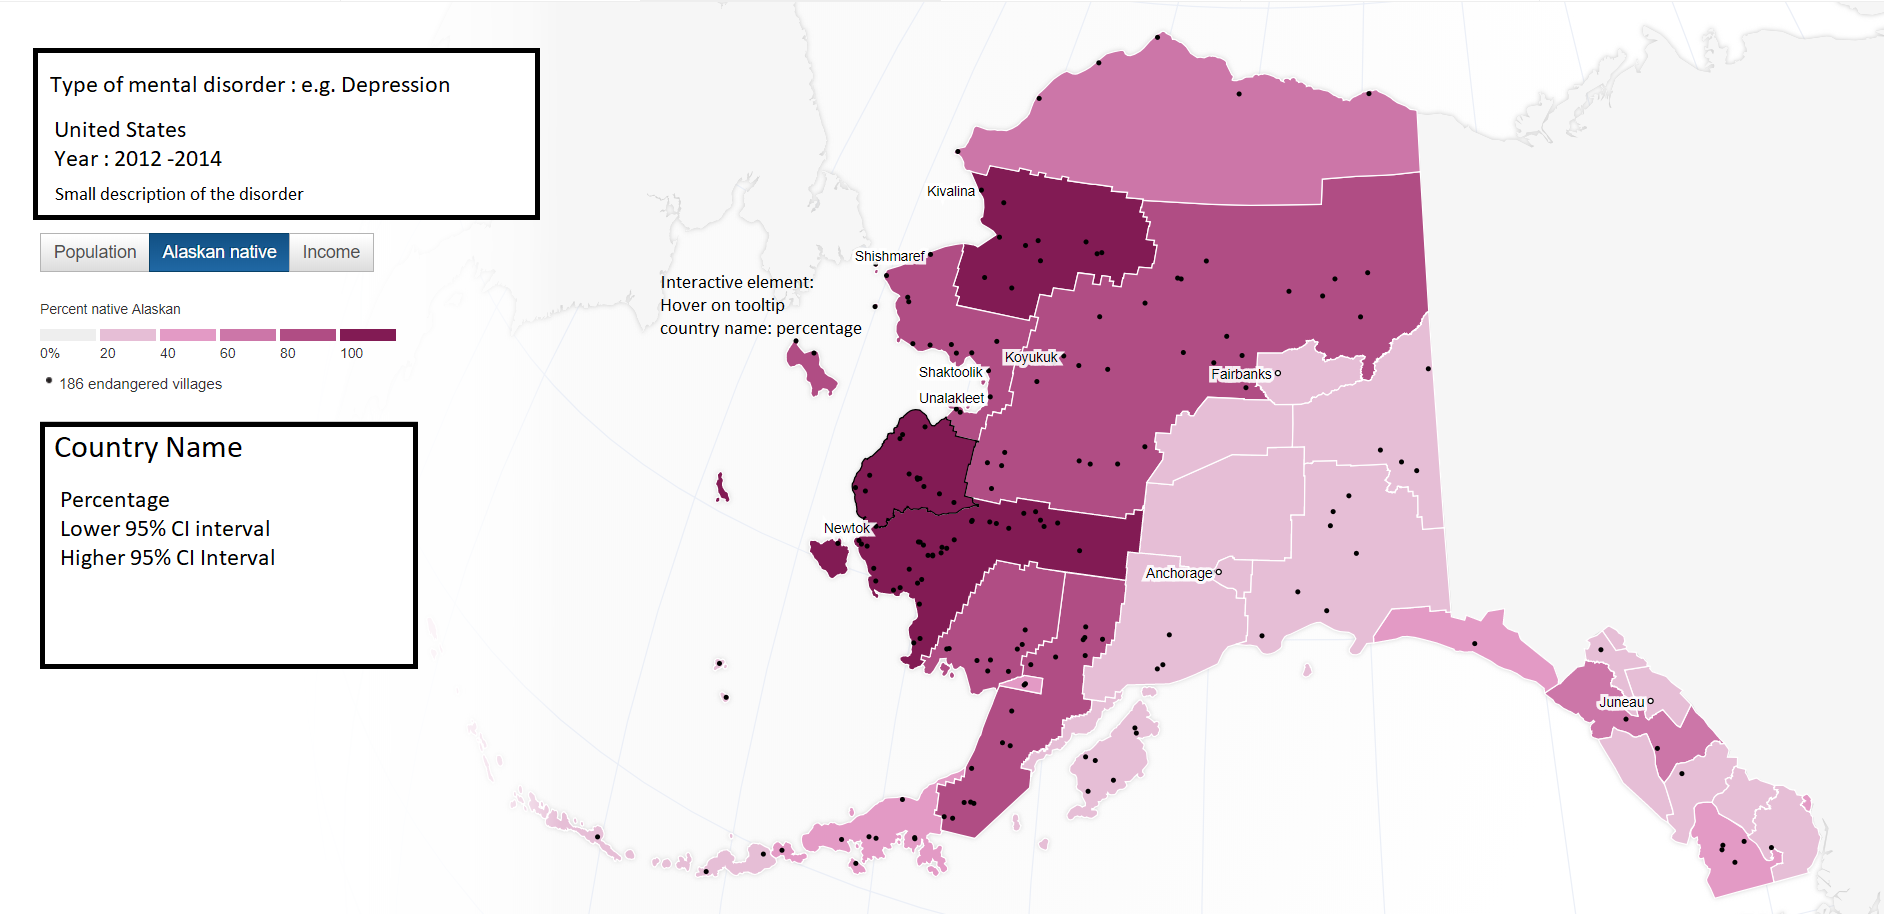
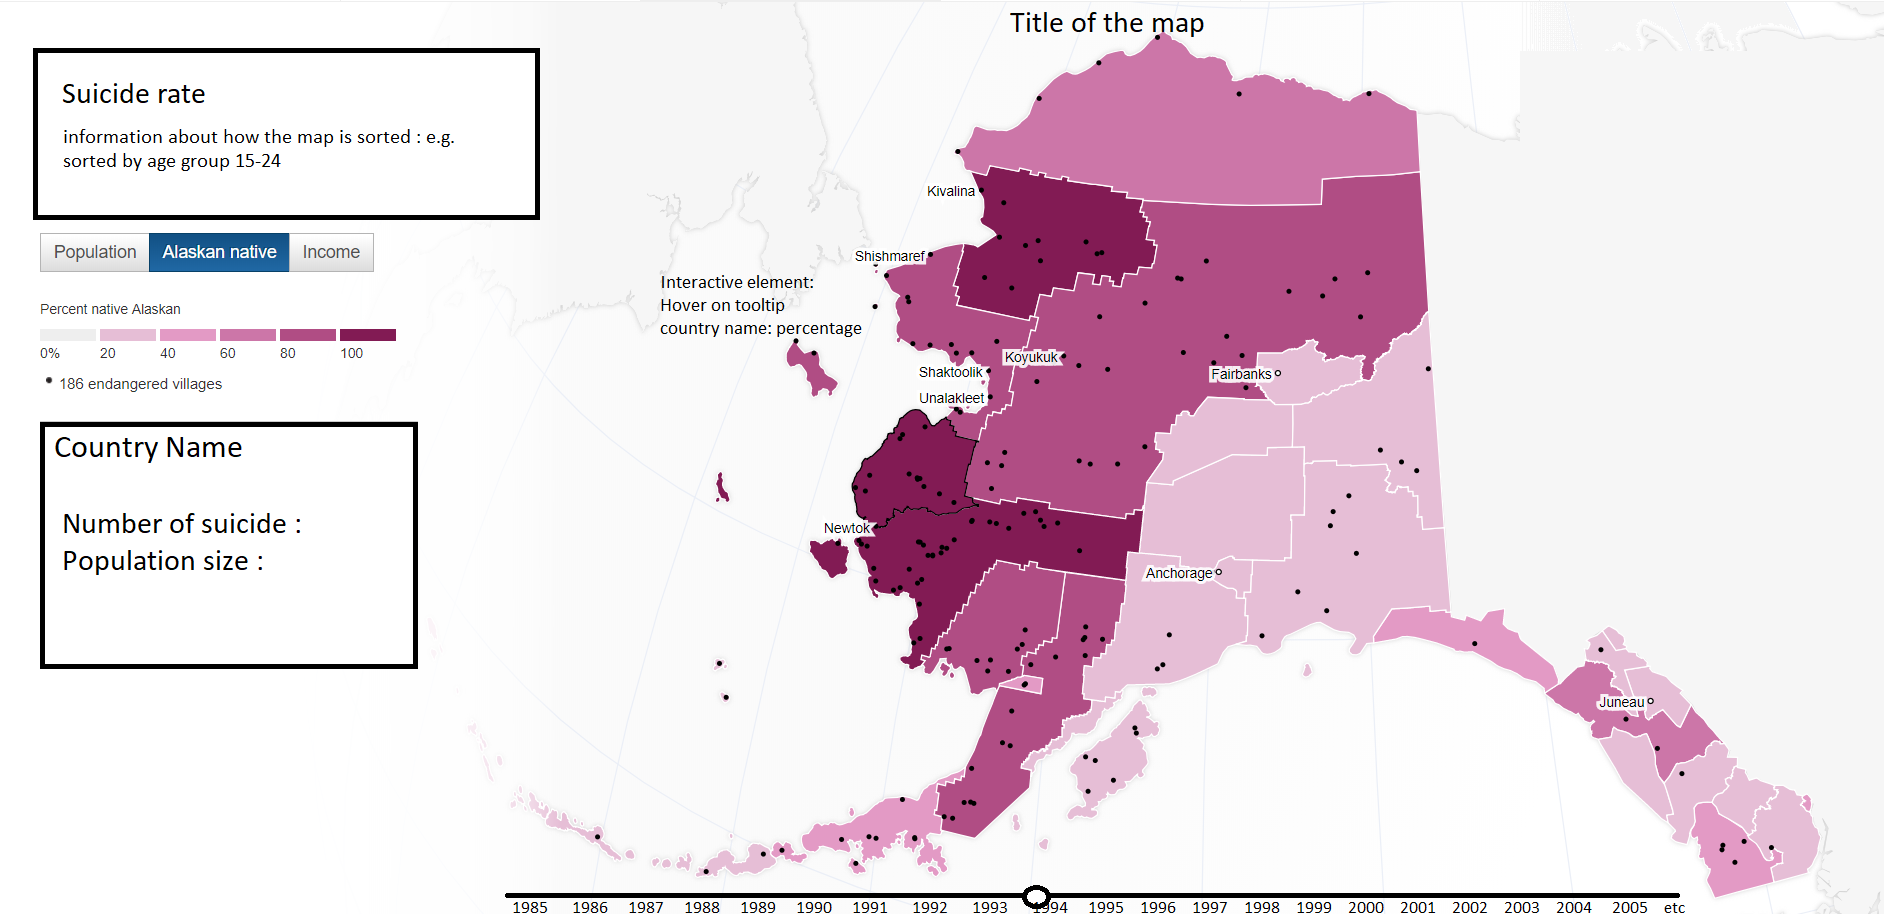
new updates proposal

diff --git a/README.md b/README.md
@@ -3,13 +3,13 @@
 Ruchella Kock (rushkock on github) :octocat:
 
 ## Summary
-This website will make a heat map, bar chart and zoomable sunburst diagram in order to help visualize the prevalence of mental disorders for non-academics.
+This website will make a heat map, bar chart and zoomable sunburst diagram in order to help visualize the prevalence of suicide over the world for non-academics.
 
 ## Problem statement
-There is a lot of data and information about different mental health diseases. There are many papers describing prevalence rates of mental disorders (e.g. Anderson, Freedland, Clouse, & Lustman, 2001; Nock, et al., 2008). However, based on my experience these papers use tables instead of visualizations to show the data. Moreover, if visualizations are used it is complicated and academic as in the case with the paper by Nock and colleagues (2008). This website aims to provide clear visualizations for academics who are interested in prevalence rates of mental disorders in the united states.
+There is a lot of data and information about different mental health diseases. There are many papers describing prevalence rates of mental disorders (e.g. Anderson, Freedland, Clouse, & Lustman, 2001; Nock, et al., 2008). However, based on my experience these papers use tables instead of visualizations to show the data. Moreover, if visualizations are used it is complicated and academic as in the case with the paper by Nock and colleagues (2008). This website aims to provide clear visualizations for non academics who are interested in prevalence rates of suicide over the whole world.
 
 ## Solution
-I will show the prevalence in the united states of mental disorders, serious mental disorders, depression and suicidal thoughts in 4 different graphs in order to relay information in different, clear and fast ways to the audience.
+I will show the prevalence of suicide with data from the whole world. Although suicide is not classified as a mental disorder, it is a symptom of mental disorder and thus still can show a lot about the topic.
 
 ### Home page
 The home page provides information about the problem, the data set and perhaps additional information of what the website can be used for and how it can be used.
@@ -22,56 +22,50 @@ This is what the visualization tab will approximately look like
 - Heat map with tooltip and when hovering information on screen updates in separate box (Seen on the left side underneath in picture)
 ![Heatmap](doc/heatmap.jpg)
 [source](https://www.theguardian.com/environment/interactive/2013/may/14/alaska-villages-frontline-global-warming )
-![Heatmap US](doc/heatmapUS.jpg)
-[source](https://vida.io/gists/vfP7KiHLfDbnDWBsX)
+![Heatmap world](doc/worldmap.jpg)
+[source](http://bl.ocks.org/micahstubbs/8e15870eb432a21f0bc4d3d527b2d14f)
 - Bar chart
 ![Barchart](doc/barchart.jpg)
 [source](https://publicadministration.un.org/egovkb/en-us/Data/Compare-Countries)
 - Zoomable sunburst diagram with enlargement effect
-![Zoomable sunburst diagrams](doc/sunbursts.jpg)
+![Zoomable sunburst diagrams](doc/sunburst1.jpg)
 [source](https://beta.observablehq.com/@mbostock/d3-zoomable-sunburst)
-- Confidence Interval bar chart
-![CI bar chart](doc/barchartCI.jpg)
-[source](https://beta.observablehq.com/@mbostock/u-s-population-by-age-and-sex/3)
-- Dropdown sort by state
-In this dropdown all the states will be available. Once a state is chosen these are highlighted perhaps with both the use of colour and or enlargements. The data for the other states will be in the background.
-- Dropdown sort by type of disorder
-This will provide the possibility to change between the datasets. Essentially providing the same visualizations but for a whole other dataset.
+- Dropdown sort by age
+In this dropdown the user can choose one specific age group (E.g. 5 -14). The map is updated, the user can see in which country the most suicides occurred in that age group
+- Dropdown sort by gender
+In this dropdown the user can choose between male and female. The map is updated, the user can see in which country the most suicides occurred for males or females
+- Slider for the years
+The user can move the slider and see how the data changes per year
 - Tooltip with extra information
 - Enlargement while hovering
+
 
 ## The minimum viable product (MVP)
 -	Heat map with tooltip and when hovering information in separate box (See heatmap)
 -	Bar chart with enlargement effect
 -	Zoomable sunburst diagram with enlargement effect
--	Dropdown sort by type of disorder
+-	Dropdown sort by age
+- Slider per year
 -	Tooltip with extra information
 
 ## Optional to implement.
-- Confidence interval bar chart
-- Perhaps working with all 4 datasets may be optional I may just choose 2 to start
 - Enlargement while hovering
-- Dropdown sort by state
+- Dropdown sort by gender
+- Make it possible to sort by both age and gender at the same time per example male age group 5 - 14
 
 ## Prerequisites
 ### Data sources
-[Thoughts of suicide](https://data.world/samhsa/serious-thoughts-of-suicide)
-
-[Major depressive episode](https://data.world/samhsa/major-depressive-episode)
-
-[Serious mental illness](https://data.world/samhsa/serious-mental-illness)
-
-[Any mental illness](https://data.world/samhsa/any-mental-illness)
-
-Note: no transformations necessary
+[WHO suicide statistics](https://www.kaggle.com/szamil/who-suicide-statistics)
+Transformations: remove outliers and remove countries with no data
 
 ### External components
 d3 version (5.7.0)
+d3 tooltip
 flare visualization toolkit
 
 ### Previous implementation
 My website I find to be most similar to this website [CSRIB](https://dboekhout.github.io/CSRIB/).
-The use of 4 visualizations. Including a heat map and bar charts. This website also allows the possibility to sort by country (which would be sort by state in my case). It also offers interactive elements such as the tooltip and enlargements.
+The use of a heat map and bar charts. This website also allows the possibility to sort by country (which would be sort by age or gender in my case). It also offers interactive elements such as the tooltip and enlargements.
 
 [This](http://www.humanosphere.org/global-health/2013/06/visualize-mental-illness/) webpage offers some visualizations of mental health.
 It is similar in terms of it also visualizes mental health. However, it is not interactive. Similar to my proposal there is a heat map.
@@ -79,7 +73,7 @@ It is similar in terms of it also visualizes mental health. However, it is not i
 [This](https://ourworldindata.org/mental-health) website also offers visualizations of mental health. The format is more of a paper with static visualizations to view the data. It also uses heat maps and bar charts.
 
 ### Challenges
-Using data from 4 different datasets could be challenging. In technical terms I believe the zoomable sunburst diagram will be the hardest to implement. It is something I have not done before. It may also be hard to make it a clear and functional visualization. Rather, instead of making the data clearer for everyone if not implemented properly it may make it more confusing.
+Preprocessing, cleaning and sorting the data I believe will be challenging. The data is very large and it is hard to decide when to remove something like 0 suicides because it could be there was no information in that year or just no suicides in that year. In technical terms I believe the zoomable sunburst diagram will be the hardest to implement. It is something I have not done before. It may also be hard to make it a clear and functional visualization. Rather, instead of making the data clearer for everyone if not implemented properly it may make it more confusing. The slider may also prove difficult.
 
 
 ## References

diff --git a/READMEfirstdraft.md b/READMEfirstdraft.md
@@ -1,0 +1,87 @@
+# Mental disorders in united state for ages 18 and up
+## Author
+Ruchella Kock (rushkock on github) :octocat:
+
+## Summary
+This website will make a heat map, bar chart and zoomable sunburst diagram in order to help visualize the prevalence of mental disorders for non-academics.
+
+## Problem statement
+There is a lot of data and information about different mental health diseases. There are many papers describing prevalence rates of mental disorders (e.g. Anderson, Freedland, Clouse, & Lustman, 2001; Nock, et al., 2008). However, based on my experience these papers use tables instead of visualizations to show the data. Moreover, if visualizations are used it is complicated and academic as in the case with the paper by Nock and colleagues (2008). This website aims to provide clear visualizations for academics who are interested in prevalence rates of mental disorders in the united states.
+
+## Solution
+I will show the prevalence in the united states of mental disorders, serious mental disorders, depression and suicidal thoughts in 4 different graphs in order to relay information in different, clear and fast ways to the audience.
+
+### Home page
+The home page provides information about the problem, the data set and perhaps additional information of what the website can be used for and how it can be used.
+
+### Visualization page
+This is what the visualization tab will approximately look like
+![Visualization](doc/visualization.jpg)
+
+## Main features
+- Heat map with tooltip and when hovering information on screen updates in separate box (Seen on the left side underneath in picture)
+![Heatmap](doc/heatmap.jpg)
+[source](https://www.theguardian.com/environment/interactive/2013/may/14/alaska-villages-frontline-global-warming )
+![Heatmap US](doc/heatmapUS.jpg)
+[source](https://vida.io/gists/vfP7KiHLfDbnDWBsX)
+- Bar chart
+![Barchart](doc/barchart.jpg)
+[source](https://publicadministration.un.org/egovkb/en-us/Data/Compare-Countries)
+- Zoomable sunburst diagram with enlargement effect
+![Zoomable sunburst diagrams](doc/sunbursts.jpg)
+[source](https://beta.observablehq.com/@mbostock/d3-zoomable-sunburst)
+- Confidence Interval bar chart
+![CI bar chart](doc/barchartCI.jpg)
+[source](https://beta.observablehq.com/@mbostock/u-s-population-by-age-and-sex/3)
+- Dropdown sort by state
+In this dropdown all the states will be available. Once a state is chosen these are highlighted perhaps with both the use of colour and or enlargements. The data for the other states will be in the background.
+- Dropdown sort by type of disorder
+This will provide the possibility to change between the datasets. Essentially providing the same visualizations but for a whole other dataset.
+- Tooltip with extra information
+- Enlargement while hovering
+
+## The minimum viable product (MVP)
+-	Heat map with tooltip and when hovering information in separate box (See heatmap)
+-	Bar chart with enlargement effect
+-	Zoomable sunburst diagram with enlargement effect
+-	Dropdown sort by type of disorder
+-	Tooltip with extra information
+
+## Optional to implement.
+- Confidence interval bar chart
+- Perhaps working with all 4 datasets may be optional I may just choose 2 to start
+- Enlargement while hovering
+- Dropdown sort by state
+
+## Prerequisites
+### Data sources
+[Thoughts of suicide](https://data.world/samhsa/serious-thoughts-of-suicide)
+
+[Major depressive episode](https://data.world/samhsa/major-depressive-episode)
+
+[Serious mental illness](https://data.world/samhsa/serious-mental-illness)
+
+[Any mental illness](https://data.world/samhsa/any-mental-illness)
+
+Note: no transformations necessary
+
+### External components
+d3 version (5.7.0)
+flare visualization toolkit
+
+### Previous implementation
+My website I find to be most similar to this website [CSRIB](https://dboekhout.github.io/CSRIB/).
+The use of 4 visualizations. Including a heat map and bar charts. This website also allows the possibility to sort by country (which would be sort by state in my case). It also offers interactive elements such as the tooltip and enlargements.
+
+[This](http://www.humanosphere.org/global-health/2013/06/visualize-mental-illness/) webpage offers some visualizations of mental health.
+It is similar in terms of it also visualizes mental health. However, it is not interactive. Similar to my proposal there is a heat map.
+
+[This](https://ourworldindata.org/mental-health) website also offers visualizations of mental health. The format is more of a paper with static visualizations to view the data. It also uses heat maps and bar charts.
+
+### Challenges
+Using data from 4 different datasets could be challenging. In technical terms I believe the zoomable sunburst diagram will be the hardest to implement. It is something I have not done before. It may also be hard to make it a clear and functional visualization. Rather, instead of making the data clearer for everyone if not implemented properly it may make it more confusing.
+
+
+## References
+- Anderson, R. J., Freedland, K. E., Clouse, R. E., & Lustman, P. J. (2001). The prevalence of comorbid depression in adults with diabetes: a meta-analysis. Diabetes care, 24(6), 1069-1078.
+- Nock, M. K., Borges, G., Bromet, E. J., Alonso, J., Angermeyer, M., Beautrais, A., . . . Williams, D. (2008). Cross-national prevalence and risk factors for suicidal ideation, plans and attempts. The British Journal of Psychiatry , Ron, 192(2), 98-105.
